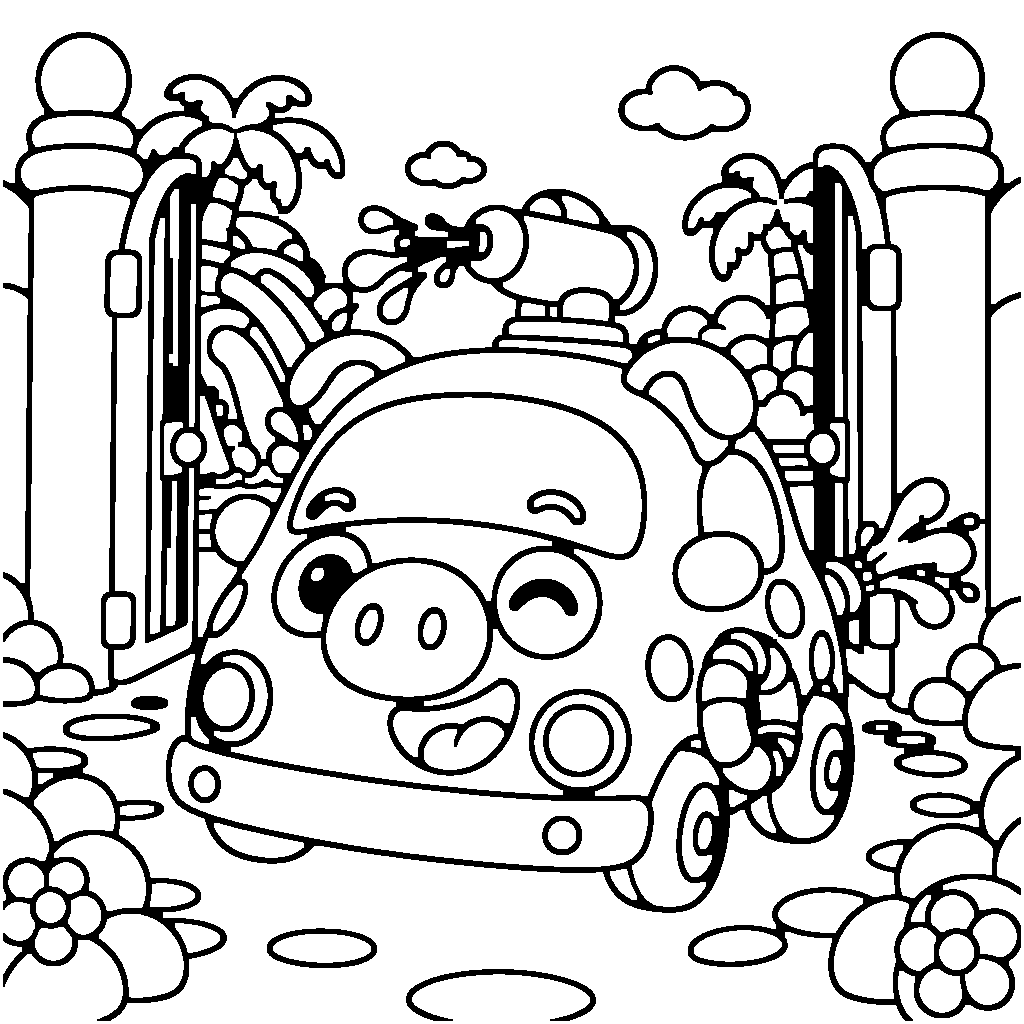
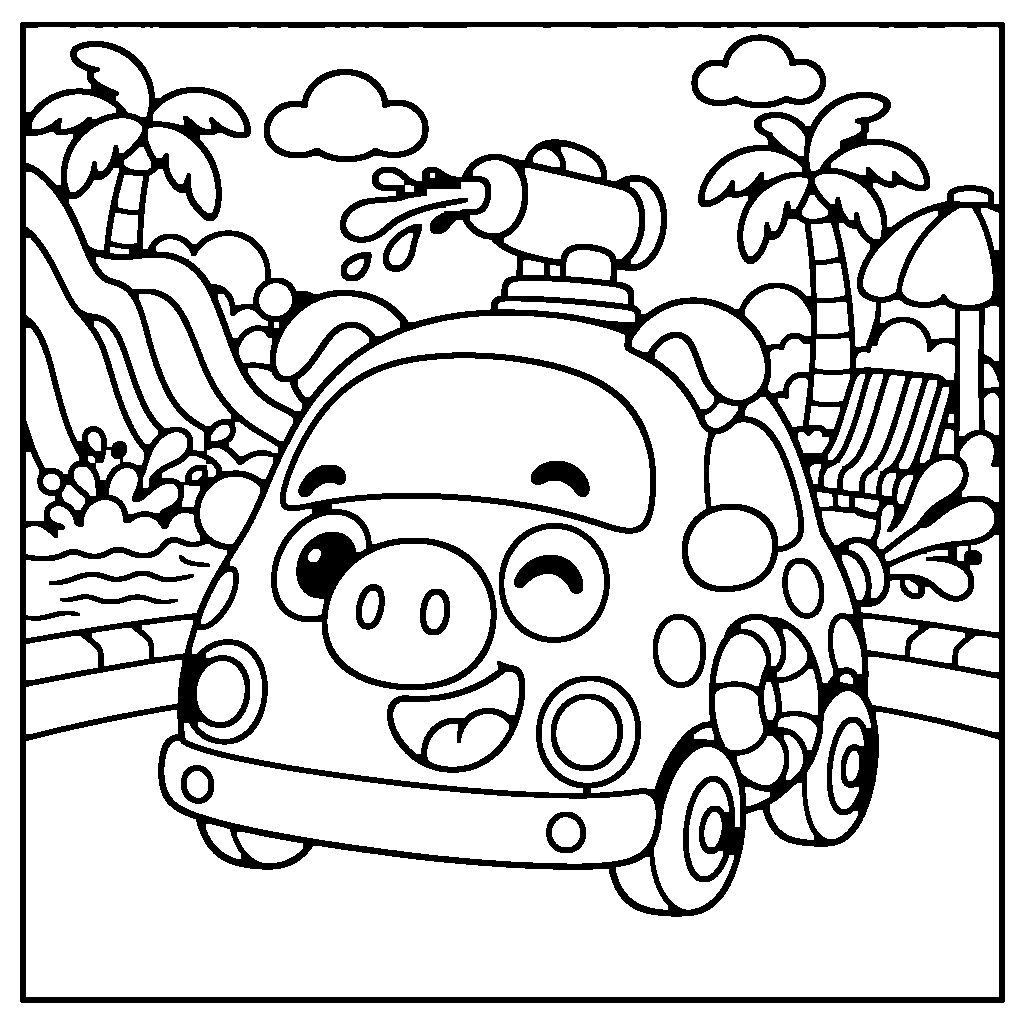
feat(play): 著色本補上噗噗豬與東東工地，並換成水上樂園大色塊
過關的三頁上架，角色與故事畫面各八頁。安安出任務與多多刷牙維持原圖。

Changed region(s): [[0.0, 0.0, 1.0, 1.0], [0.5938, 0.0938, 0.625, 0.125]]

diff --git a/data/coloring-pages.ts b/data/coloring-pages.ts
@@ -1,4 +1,4 @@
-/** 線上著色本：大色塊線稿。角色七頁、故事畫面七頁；缺頁待補畫。 */
+/** 線上著色本：角色八頁、故事畫面八頁。安安出任務仍是舊細線稿。 */
 import type { ZoneId } from "@/data/universe-zones";
 
 export type ColoringPageKind = "character" | "scene";
@@ -105,6 +105,17 @@ export const COLORING_PAGES: readonly ColoringPage[] = [
     previewSrc: "/characters/亮亮警車.jpg",
   },
   {
+    id: "char-噗噗豬",
+    storySlug: "ep-16",
+    activity: "幫噗噗豬的水砲和救生圈換上新顏色！",
+    lineArtRevision: 1,
+    title: "噗噗豬",
+    kind: "character",
+    sourcePath: "characters/噗噗豬.jpg",
+    lineArtSrc: "/coloring/char-噗噗豬/line.png",
+    previewSrc: "/characters/噗噗豬.jpg",
+  },
+  {
     id: "scene-ep-3-05",
     storySlug: "ep-3",
     lineArtRevision: 3,
@@ -144,7 +155,7 @@ export const COLORING_PAGES: readonly ColoringPage[] = [
   {
     id: "scene-ep-16-05",
     storySlug: "ep-16",
-    lineArtRevision: 2,
+    lineArtRevision: 3,
     title: "噗噗豬的水上樂園",
     kind: "scene",
     sourcePath: "stories/ep-16/05.jpg",
@@ -188,6 +199,19 @@ export const COLORING_PAGES: readonly ColoringPage[] = [
     previewSrc: "/stories/ep-12/07.jpg",
     zoneId: "rescue",
     referencePaths: ["characters/亮亮警車.jpg", "characters/小藍巴士.jpg"],
+  },
+  {
+    id: "scene-ep-5-05",
+    storySlug: "ep-5",
+    activity: "幫東東的土堆和挖斗換上新顏色！",
+    lineArtRevision: 1,
+    title: "東東挖土機的工地",
+    kind: "scene",
+    sourcePath: "stories/ep-5/05.jpg",
+    lineArtSrc: "/coloring/scene-ep-5-05/line.png",
+    previewSrc: "/stories/ep-5/05.jpg",
+    zoneId: "forest",
+    referencePaths: ["characters/東東挖土機.jpg"],
   },
 ] as const;
 

diff --git a/data/coloring-pages.test.ts b/data/coloring-pages.test.ts
@@ -10,12 +10,12 @@ import {
 const PUBLIC_DIR = join(process.cwd(), "public");
 
 describe("coloring-pages catalog", () => {
-  test("七個角色、七個故事畫面，全部是大色塊線稿", () => {
+  test("八個角色、八個故事畫面", () => {
     expect(COLORING_PAGES.filter((p) => p.variant)).toHaveLength(0);
     expect(COLORING_PAGES.filter((p) => p.kind === "character")).toHaveLength(
-      7,
+      8,
     );
-    expect(COLORING_PAGES.filter((p) => p.kind === "scene")).toHaveLength(7);
+    expect(COLORING_PAGES.filter((p) => p.kind === "scene")).toHaveLength(8);
   });
 
   test("id 唯一且與 COLORING_PAGE_IDS 對齊", () => {
@@ -33,12 +33,12 @@ describe("coloring-pages catalog", () => {
     }
   });
 
-  test("場景頁覆蓋 car-park / dino / rescue / ocean", () => {
+  test("場景頁覆蓋 car-park / dino / rescue / ocean / forest", () => {
     const zones = COLORING_PAGES.filter((p) => p.kind === "scene").map(
       (p) => p.zoneId,
     );
     expect(new Set(zones)).toEqual(
-      new Set(["car-park", "dino", "rescue", "ocean"]),
+      new Set(["car-park", "dino", "rescue", "ocean", "forest"]),
     );
   });
 });

diff --git a/lib/coloring-query.test.ts b/lib/coloring-query.test.ts
@@ -12,8 +12,8 @@ describe("coloring-query", () => {
   });
 
   test("listColoringPages 可依 kind 篩選", () => {
-    expect(listColoringPages("character")).toHaveLength(7);
-    expect(listColoringPages("scene")).toHaveLength(7);
+    expect(listColoringPages("character")).toHaveLength(8);
+    expect(listColoringPages("scene")).toHaveLength(8);
     expect(listColoringPages("character").every((p) => p.kind === "character")).toBe(
       true,
     );
